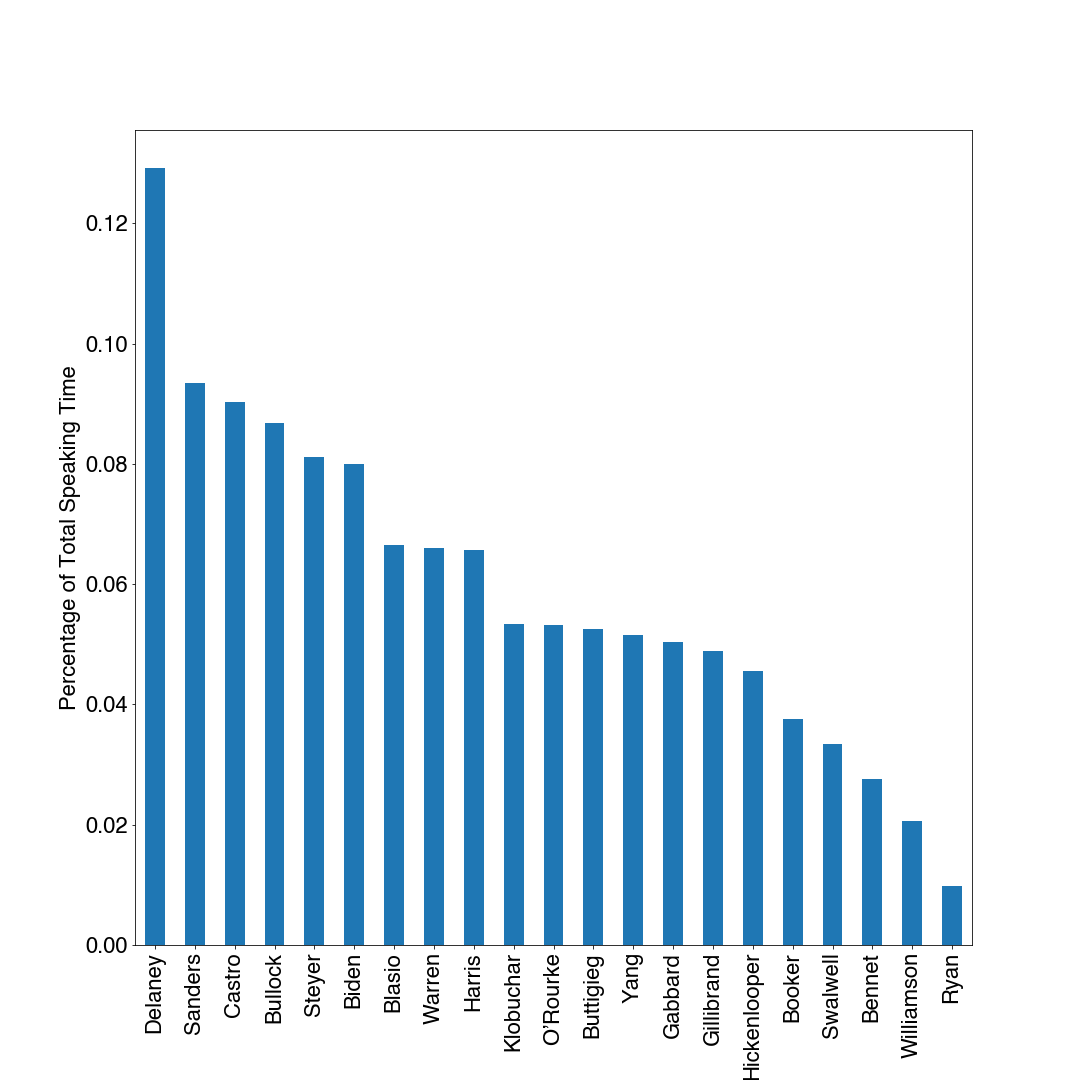
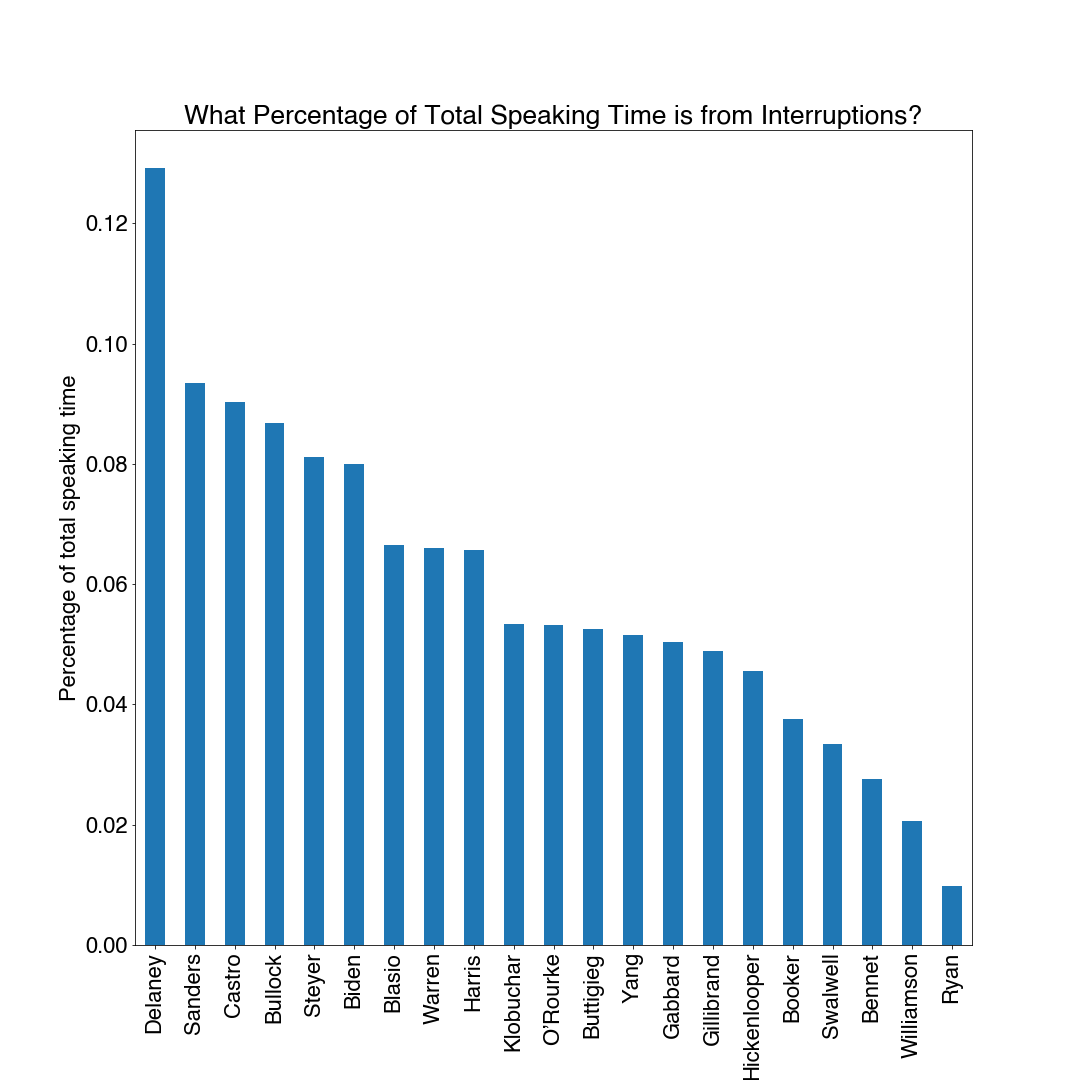
fixed some graphs, edited some text

Changed region(s): [[0.1528, 0.0917, 0.8556, 0.1222], [0.0306, 0.3361, 0.0917, 0.6417]]

diff --git a/_includes/analytics.html b/_includes/analytics.html
@@ -1,16 +1,13 @@
 {% if site.google_analytics %}
 	<!-- Google Analytics -->
+	<!-- Global site tag (gtag.js) - Google Analytics -->
+	<script async src="https://www.googletagmanager.com/gtag/js?id={{site.google_analytics}}"></script>
 	<script>
-		(function(i,s,o,g,r,a,m){i['GoogleAnalyticsObject']=r;i[r]=i[r]||function(){
-		(i[r].q=i[r].q||[]).push(arguments)},i[r].l=1*new Date();a=s.createElement(o),
-		m=s.getElementsByTagName(o)[0];a.async=1;a.src=g;m.parentNode.insertBefore(a,m)
-		})(window,document,'script','//www.google-analytics.com/analytics.js','ga');
+	  window.dataLayer = window.dataLayer || [];
+	  function gtag(){dataLayer.push(arguments);}
+	  gtag('js', new Date());
 
-		ga('create', '{{ site.google_analytics }}', 'auto');
-		ga('send', 'pageview', {
-		  'page': '{{ site.baseurl }}{{ page.url }}',
-		  'title': '{{ page.title | replace: "'", "\\'" }}'
-		});
+	  gtag('config', '{{site.google_analytics}}');
 	</script>
 	<!-- End Google Analytics -->
 {% endif %}

diff --git a/_posts/2020-1-10-what-can-data-science-tell-us-about-democratic-debates-1.md b/_posts/2020-1-10-what-can-data-science-tell-us-about-democratic-debates-1.md
@@ -1,9 +1,8 @@
 ---
 layout: post
-title: Can Natural Language Processing help us make sense of the debates?
+title: What Can Data Science Tell Us About the Democratic Debates?
 ---
-
-In the past year there has been **6** democratic debates with a total of **22** candidates who have spoken **181864** words for a total of **14 hours, 47 minutes and 24 seconds.**
+![image]({{ site.baseurl }}/images/democratic-debates.jpg) In the past year there has been **6** democratic debates with a total of **22** candidates who have spoken **181864** words for a total of **14 hours, 47 minutes and 24 seconds.**
 
 With so much content, I find it's often difficult to make sense of what's happened.
 
@@ -170,11 +169,22 @@ While Joe Biden has a **high number of interruptions**, other candidates have a 
 # The elephant in the room
 ![image]({{ site.baseurl }}/images/trump-smug.jpg)
 
-Throughout the election democrats have continuously stressed the importance of focusing on real issues rather than just being ["anti-Trump"](https://www.nbcnews.com/politics/politics-news/schumer-warns-democrats-can-t-just-be-anti-trump-n847186). Did the current crop of democrats follow their own advice? Tdlr; kinda?
+Throughout the election democrats have continuously stressed the importance of focusing on real issues rather than just being ["anti-Trump"](https://www.nbcnews.com/politics/politics-news/schumer-warns-democrats-can-t-just-be-anti-trump-n847186). Did the current crop of democrats follow their own advice?
+
+### Sidebar: Named Entity Recognition
+To do this kind of analysis we can leverage a machine learning task called named entity recognition, which can recognize and categorize important words. Heres an example:
+
+![image]({{ site.baseurl }}/images/named-entity-recognition.png)
+
+We can use this technology to extract all mentions of a PERSON.
+
+### Alright, back to Trump
+
+What do we get if we apply this to the debate transcripts?
 
 ![image]({{ site.baseurl }}/images/utterances-trump.png)
 
-Steve Bullock was only given 25 opportunities to speak, and in 7 of those, he mentioned Trump. Curiously at the top is Andrew Yang, who has stressed the importance of not obsessing over Trump so often that he mentions him at a higher rate than basically every other Democrat. He mentions Trump in 14 out of 92 utterances (he actually References Trump directly 28 times). Kamala Harris, Cory Booker and Amy Klobuchar are tied for first, mentioning Trump in 17 of their utterances. In total, Donald Trump was referenced 330 times across all the candidates.
+Steve Bullock was only given 25 opportunities to speak, and in 7 of those, he mentioned Trump. Curiously at the top is Andrew Yang, who has stressed the importance of not obsessing over Trump so often that he mentions him at a higher rate than basically every other Democrat. He mentions Trump in 14 out of 92 statements (he says Trump's name 28 times in those 14 statements).
 
 However, the "top" candidates (who I'm considering to be Biden, Warren, Sanders, and Buttigieg) were less interested in talking about Trump. They only mentioned Trump in about 5% of their statements, combining for 52 mentions out of the 961 times they spoke.
 
